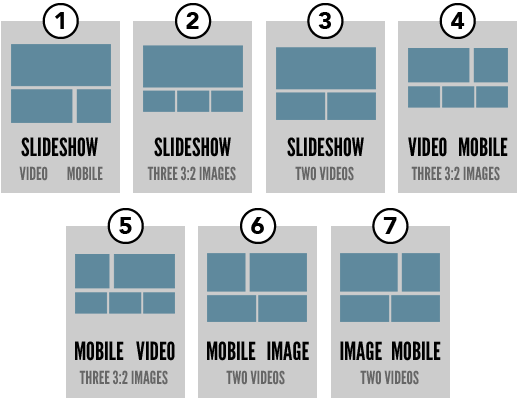
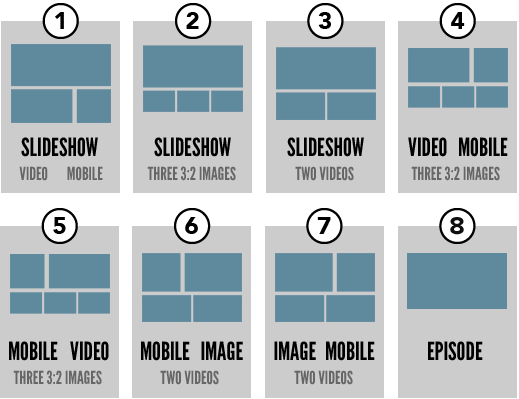
Update to accommodate new billboard layout

Changed region(s): [[0.0, 0.5113, 1.0, 1.0]]

diff --git a/app/models/billboard.rb b/app/models/billboard.rb
@@ -14,7 +14,8 @@ class Billboard < ActiveRecord::Base
     4 => "4 - TOP: Video (16:9) + Mobile (1:1) / BOTTOM: Triptych of Images (3:2)",
     5 => "5 - TOP: Mobile (1:1) + Video (16:9) / BOTTOM: Triptych of Images (3:2)",
     6 => "6 - TOP: Mobile (1:1) + Image (3:2) / BOTTOM: Pair of Videos (16:9)",
-    7 => "7 - TOP: Image (3:2) + Mobile (1:1) / BOTTOM: Pair of Videos (16:9)"
+    7 => "7 - TOP: Image (3:2) + Mobile (1:1) / BOTTOM: Pair of Videos (16:9)",
+    8 => "8 - Single Episode Promo"
   }
 
   STATUS = {

diff --git a/spec/controllers/home_controller_spec.rb b/spec/controllers/home_controller_spec.rb
@@ -142,5 +142,16 @@ describe HomeController do
         response.should render_template(partial: "billboards/components/_video")
       end
     end
+
+    context 'with layout_8' do
+      it "renders properly" do
+        billboard = create :billboard, layout: 8
+        billboard.posts = [video_post]
+
+        get :homepage
+        response.should render_template(partial: "billboards/_layout_8")
+        response.body.should match video_post.title
+      end
+    end
   end
 end
